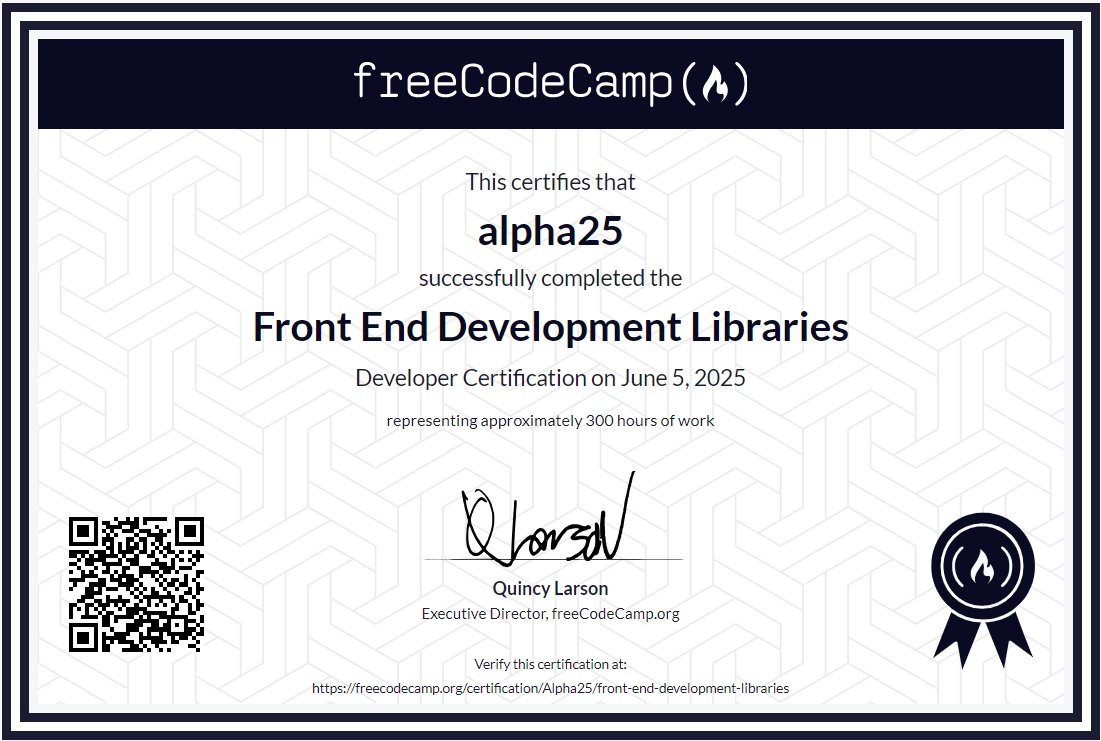
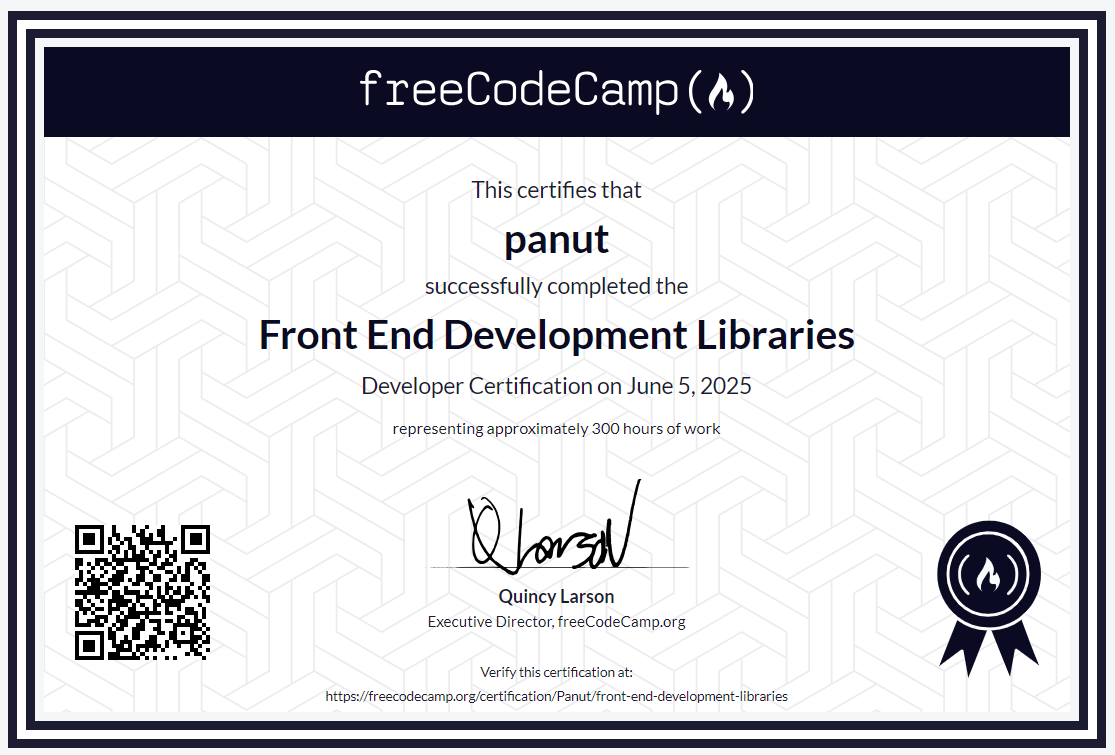
FE : change certificate photos

diff --git a/src/app/modules/component/certificate/certificate.component.html b/src/app/modules/component/certificate/certificate.component.html
@@ -10,7 +10,7 @@
             These reflect both my technical skills and hands-on experience.
             <a
                 class="highlight"
-                href="https://www.freecodecamp.org/Alpha25"><b>Click for View
+                href="https://www.freecodecamp.org/Panut"><b>Click for View
                 My Certificates</b></a>
         </span>
     </div>
